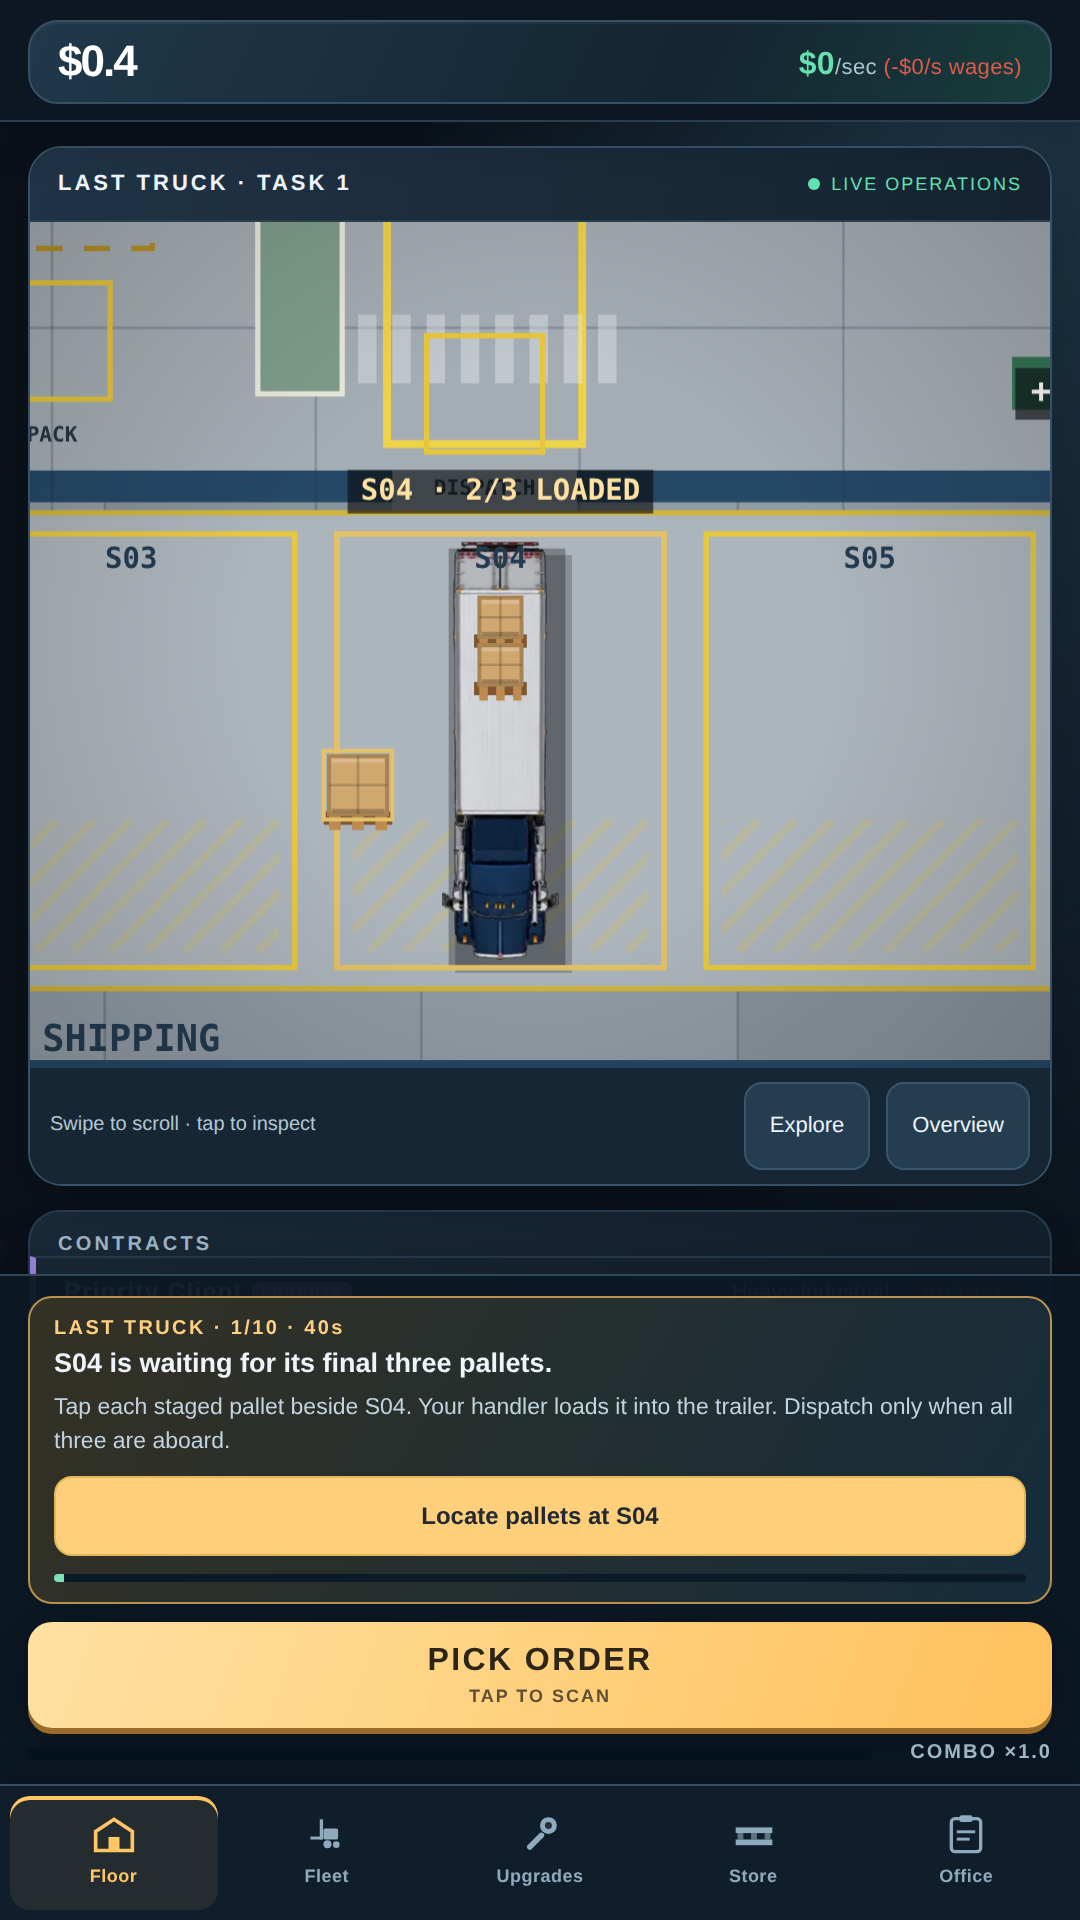
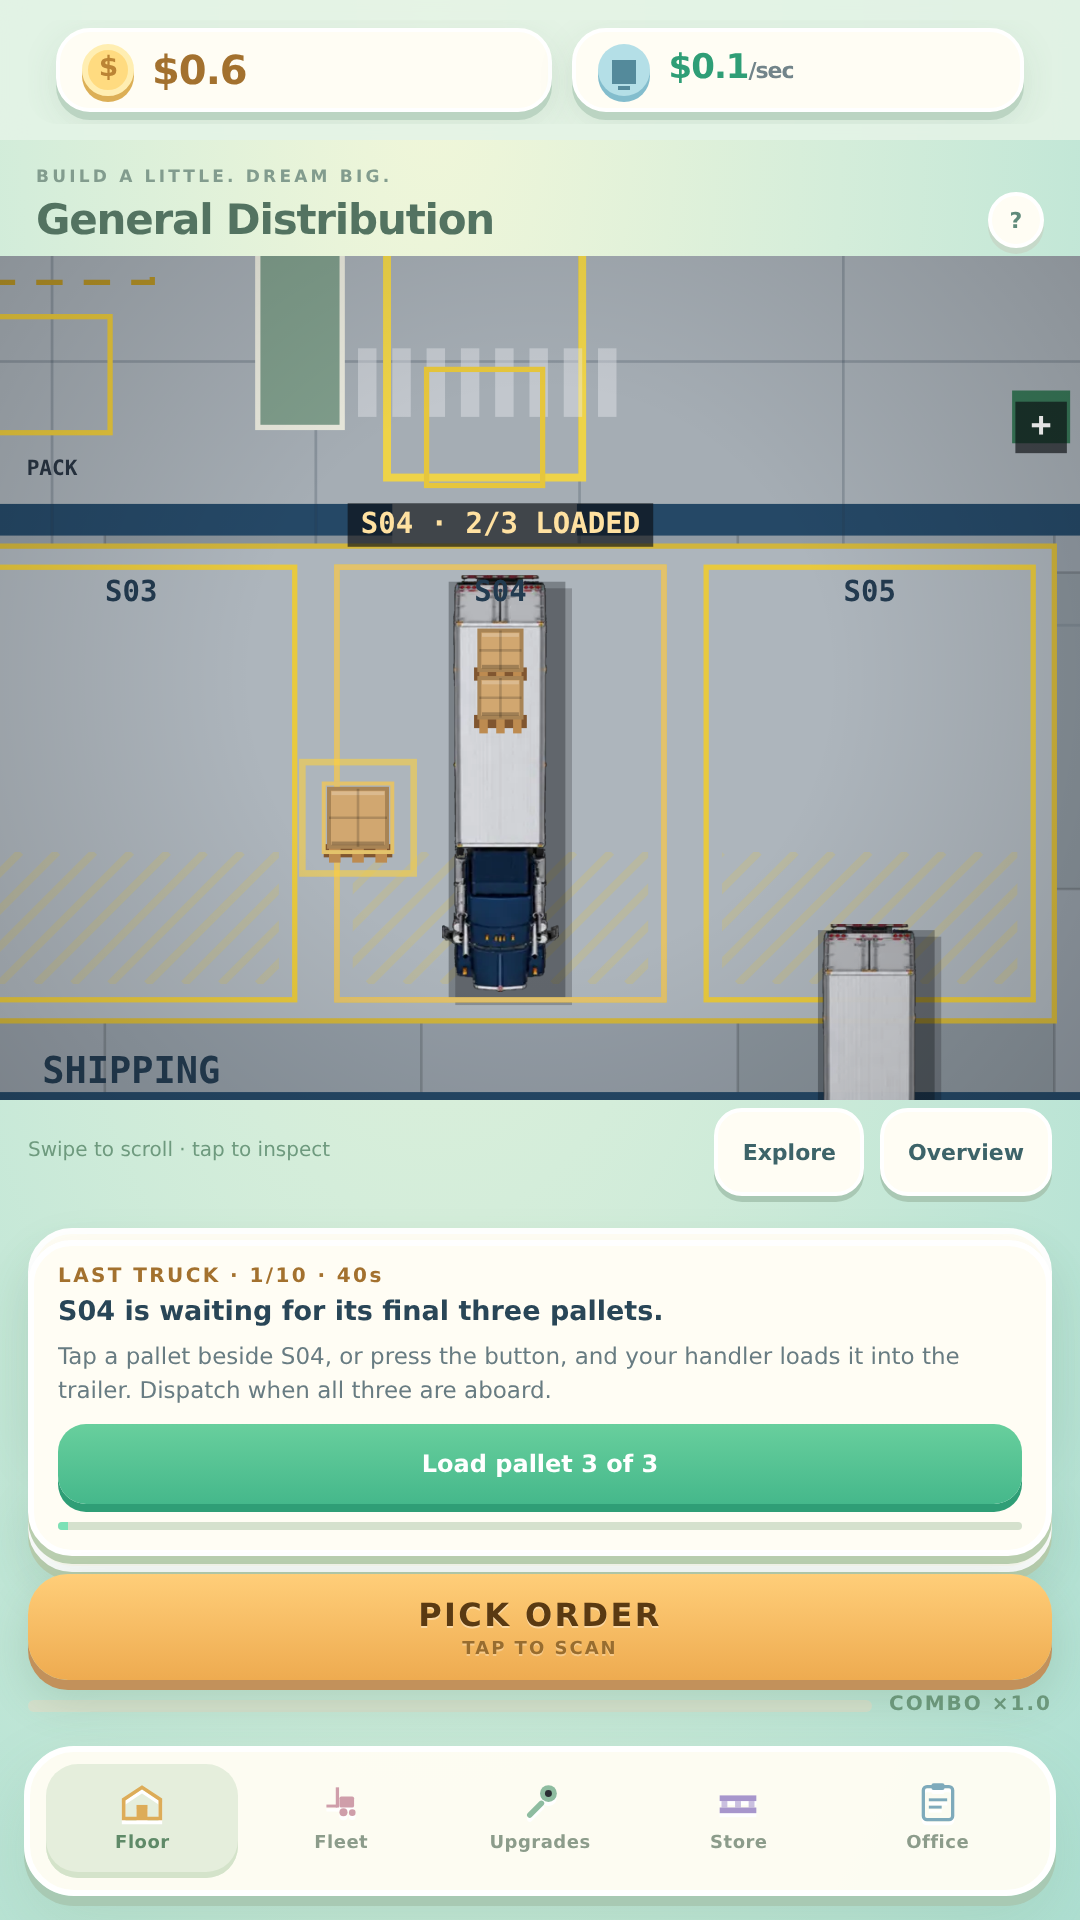
5.0: tagline on the Floor, store screenshots recaptured, release notes
Claude-Session: https://claude.ai/code/session_01PrK84LBuwqhXmUK59Cwd7A

diff --git a/warehouse-empire-android.html b/warehouse-empire-android.html
@@ -588,6 +588,8 @@ body.pocket .money{font-size:22px; padding-left:48px;}
 body.pocket .terminal{grid-template-columns:minmax(0,1.1fr) minmax(0,1fr);}
 body.pocket .logistics-flow.full{display:none;}
 body.pocket .floor-heading span{display:none;}
+body.pocket .floor-heading{flex-wrap:wrap; row-gap:2px;}
+body.pocket .floor-heading:before{content:'BUILD A LITTLE. DREAM BIG.'; flex-basis:100%; font-size:8.5px; letter-spacing:1.6px; font-weight:800; color:#829c8e;}
 body.pocket .money:before{content:'CASH'; top:9px; left:50px; color:#8b9b91; font-size:8px; letter-spacing:.9px; font-weight:800;}
 body.pocket .money:after{content:'$'; position:absolute; left:11px; top:50%; margin-top:-15px; width:30px; height:30px; display:grid; place-items:center; border-radius:50%;
   background:#ffdb80; color:#bb8435; border:3px solid #ffeeb2; box-shadow:0 3px #dcaf56; font-size:17px; font-weight:900; box-sizing:border-box;}

diff --git a/docs/release-notes-5.0.md b/docs/release-notes-5.0.md
@@ -1,0 +1,85 @@
+# Warehouse Empire 5.0
+
+A new look, from the Pocket Tycoon prototype. **Pocket** is now the default look and
+the **3D site** is the default view. Both can be switched back in Office > Look:
+Classic for the dark command centre, Plan for the flat site plan. Nothing changes how
+the game plays.
+
+**Version:** this branch contains 4.7 and 4.8. Ship it as one release, or after them.
+Use the next version code you haven't used (v34, v35 or v36), with version name **5.0**.
+
+---
+
+## Play Store release notes (short)
+
+A whole new look! Your warehouse is now a little 3D world: workers, forklifts, racks, conveyors and cranes appear as you buy them, and lorries roll in and out with your takings.
+
+Bright new cards and a floating tab bar. Prefer the old look? Switch back any time in the Office.
+
+---
+
+## Longer version
+
+### Pocket, the new default look
+
+- **Palette:** light and pastel, in the prototype's greens and creams.
+- **Readout:** Cash and Earning are stat tiles with round coin and parcel icons. Transit,
+  payroll and REP sit in smaller tiles below. The throughput bar only appears during a
+  manifest changeover, which is the only time it has anything to say.
+- **The Floor:** the heading is your site's name, under the line "Build a little. Dream
+  big.".
+- **Cards and buttons:** every card is a rounded tile with a pressed edge, and primary
+  buttons are green.
+- **Navigation:** the tab bar floats, with coloured icons. PICK ORDER sits in a floating
+  tray above it.
+- **Dialogs, notices and the splash screen** use the same soft style.
+- **Classic** (the dark command centre) is one tap away in Office > Look.
+
+### The 3D site
+
+- **Built from the prototype's isometric model, driven by your game.** Four department
+  yards sit in a two-by-two block, and the fleet you own stands in them:
+
+  | Yard | What you see |
+  |---|---|
+  | Receiving | hands and trolleys |
+  | Storage | racks that grow taller with reach trucks, forklifts running between them |
+  | Packing | the conveyor line and sorting robots |
+  | Dispatch | a crane gantry and the hub, once bought |
+
+- **Around the lot:**
+  - lorries back on to receiving and pull out of dispatch, with a "+$" for the takings;
+  - your company buildings (Head Office, People, Training and the rest) appear round
+    the lot once bought;
+  - the department limiting your flow balance is outlined, with freight waiting in it.
+- **Liveries carry over.** Racking, pillars, lorries and grass take your livery's
+  colours, and night liveries dim the lot.
+- **Taps work as before:**
+  - an incident clears and pays;
+  - a yard opens its department;
+  - a company building opens its plot;
+  - Explore lets you drag and pinch, and Overview resets the view.
+- **Readability:** the number of things drawn grows as your fleet doubles, not with every
+  purchase, and each yard has a cap. That's what keeps it readable; the old isometric
+  view was dropped because dense racking hid itself.
+- **The opening shift still runs on the plan,** which is choreographed pallet by pallet.
+  Everyone else can switch to the plan in Office > Look.
+
+---
+
+## Release checklist
+
+1. Merge after #39 (4.7) and #40 (4.8). Build with the next unused version code and
+   version name **5.0**.
+2. **Register in GA4:** `look_choice` on `look_set`. It records switches to Classic or
+   Plan and back.
+3. **Store listing:** new screenshots are in `docs/store-screenshots/` (see that
+   README's note about 03). The feature graphic and icon still show the old dark style.
+   The icon test is still running, so decide whether to wait for it to finish before
+   changing the art.
+4. **What to watch:**
+   - `look_set` with `look_choice` = `classic` or `view_plan`: how many players switch
+     back. A large share means something in Pocket isn't working for them.
+   - Frame time on older phones: the diorama draws more shapes than the plan.
+     `quality_settled` events landing on Low more often than in 4.8 are the early warning.
+   - Day-1 retention against 4.8. This is the first-impression change.

diff --git a/docs/store-screenshots/README.md b/docs/store-screenshots/README.md
@@ -1,6 +1,12 @@
 # Play Store phone screenshots
 
-Captured from **4.4 (v31)**. 1080×1920 (9:16), which is Play's phone aspect.
+Captured from **5.0** (the Pocket look and the 3D site view are the defaults).
+**Known gap:** `03-port` now reads much like `01-site` at thumbnail size. The diorama
+draws a port only as water by the road, and the old shot's container stacks are on the
+plan view. Consider replacing 03 with a different site or the Office's Site Setup until
+the diorama gets per-site dressing.
+
+Previously captured from 4.4 (v31). 1080×1920 (9:16), which is Play's phone aspect.
 A 540×960 viewport at deviceScaleFactor 2 hits it exactly.
 
 Play accepts 2–8 phone screenshots. This is eight, and the order matters: Play
@@ -9,7 +15,7 @@ to read as different at thumbnail size.
 
 | | Shows | Listing section |
 |---|---|---|
-| `01-site` | The working building at the new opening zoom, freight in transit | WATCH THE SITE RUN |
+| `01-site` | The 3D site: four department yards, fleet, lorries, company buildings | WATCH THE SITE RUN |
 | `02-last-truck` | The opening shift: S04 two-thirds loaded, the task docked above PICK ORDER | *(new in 4.4)* |
 | `03-port` | Port Terminal in Overview: container stacks in the racking | FOUR SITES |
 | `04-night-livery` | Dangerous Goods on the Night Shift livery: drum cages, dark estate | FOUR SITES |
